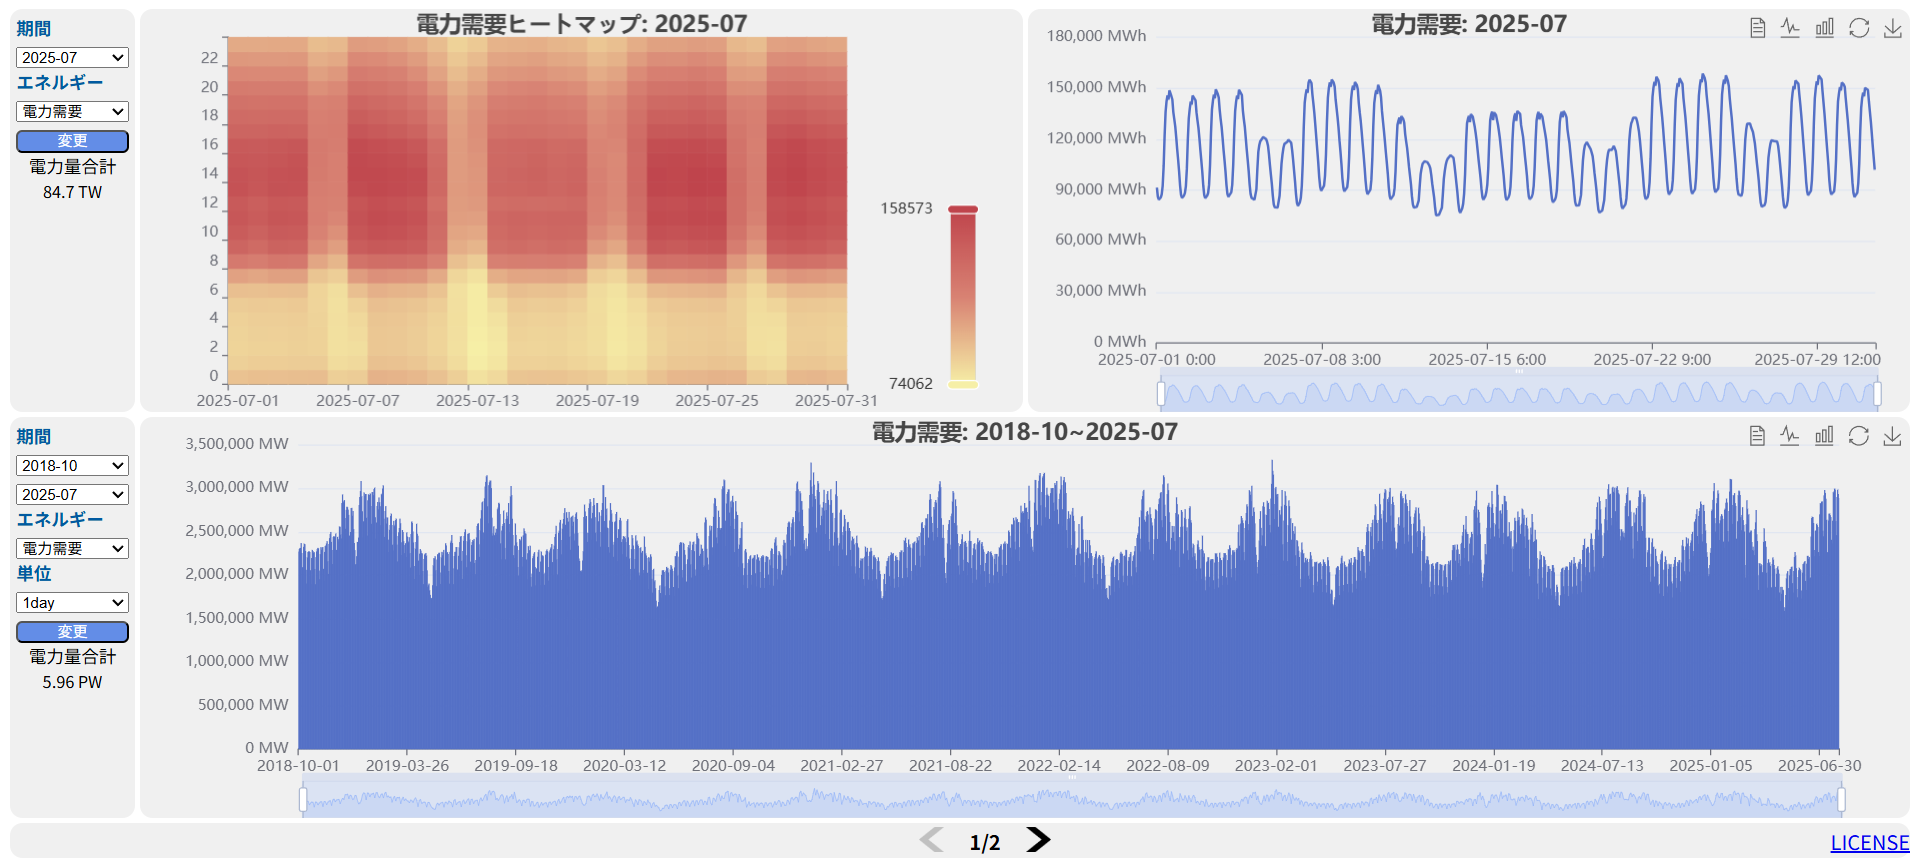
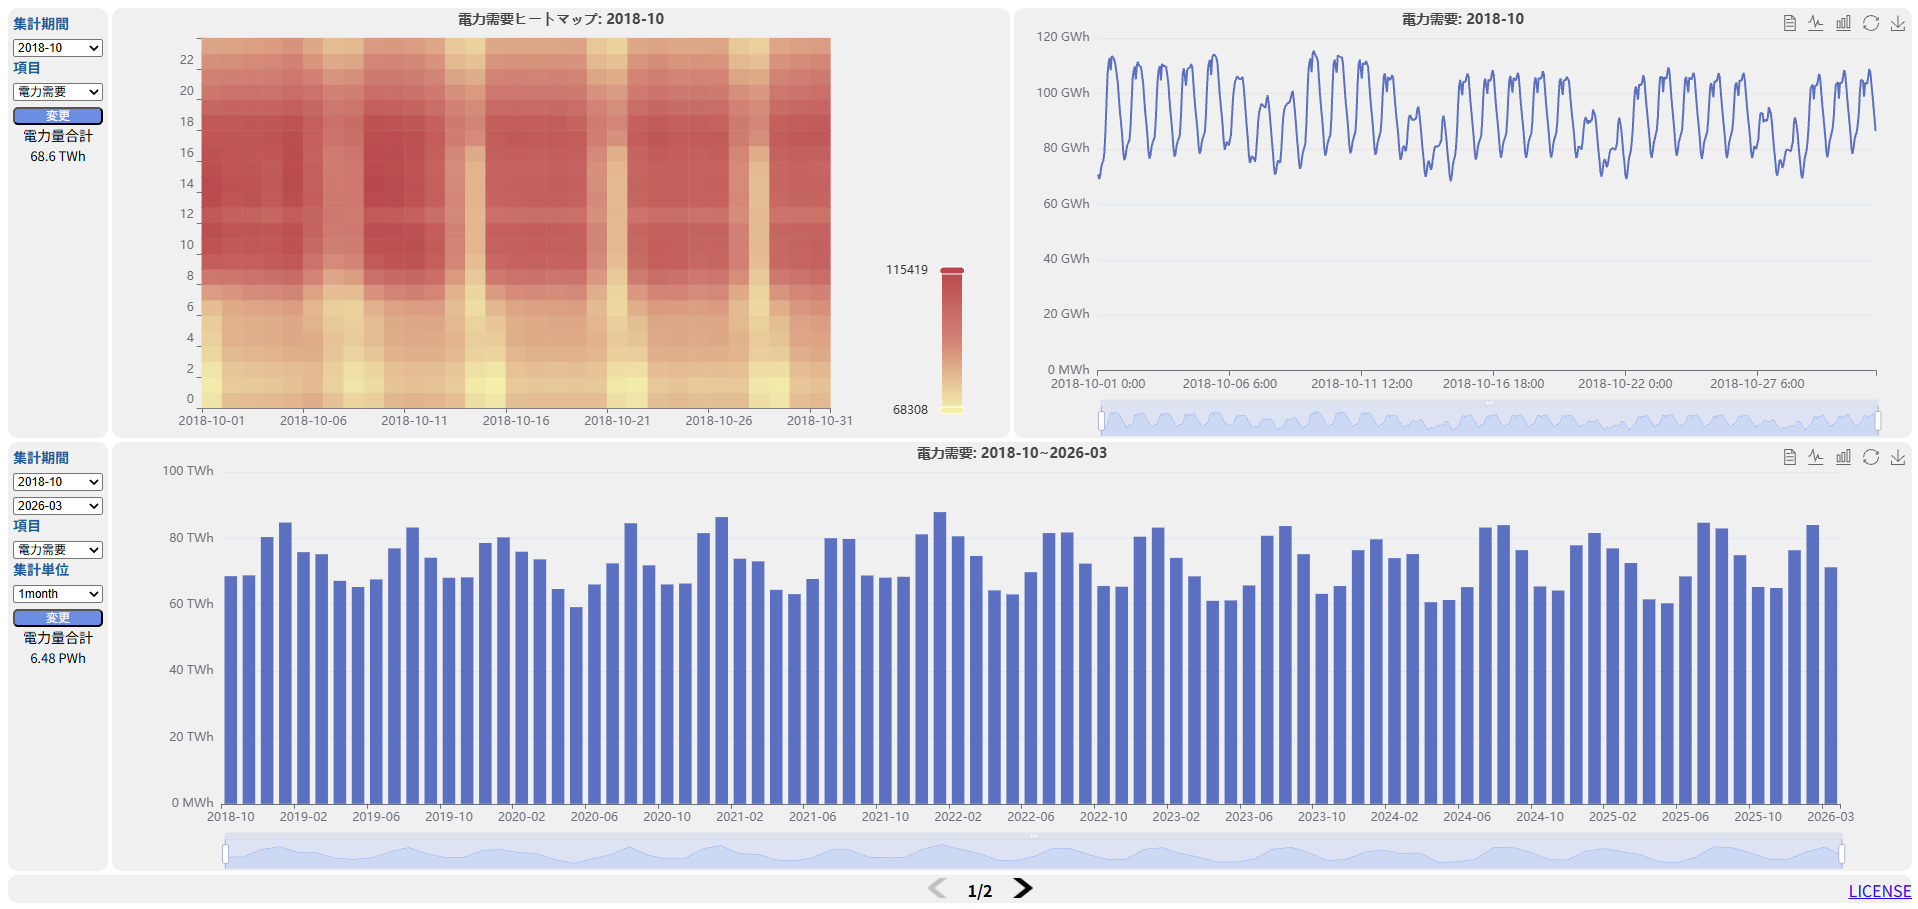
docs(readme): rewrite project documentation in Japanese
Expand the README with a clearer Japanese overview of the app, updated screenshots, data/model details, build and local preview instructions, data regeneration steps, and S3 deployment workflow. Also refresh the badge link and replace the preview images used in the documentation.

diff --git a/README.md b/README.md
@@ -1,115 +1,232 @@
-# ⚡ Japan Power Demand Chart
+# Japan Power Demand Chart
 
 [![Deploy to S3](https://github.com/BEROCHLU/power-demand-chart/actions/workflows/deploy-s3.yml/badge.svg)](https://github.com/BEROCHLU/power-demand-chart/actions/workflows/deploy-s3.yml)
-[![License: MIT](https://img.shields.io/badge/License-MIT-yellow.svg)](https://opensource.org/licenses/MIT)
+[![License: MIT](https://img.shields.io/badge/License-MIT-yellow.svg)](LICENSE)
 
-An interactive, high-performance web dashboard that visualizes Japan's power supply and demand situations over time. Built with modern web technologies, it allows users to analyze energy breakdowns, trends, and patterns through various specialized charts.
+日本の電力需給実績を、ヒートマップ、時系列グラフ、積み上げグラフ、構成比グラフで確認する静的 Web アプリケーションです。
 
-![Dashboard Preview 1](https://github.com/BEROCHLU/power-demand-chart/blob/main/.github/image1.png)
-![Dashboard Preview 2](https://github.com/BEROCHLU/power-demand-chart/blob/main/.github/image2.png)
+このリポジトリは、月別 CSV を `dist/data/rowdata-all.json` に変換し、ブラウザ上で読み込んで ECharts に描画します。サーバーサイド API は使わず、集計と表示はクライアント側で完結します。
 
----
+![Dashboard preview 1](.github/image1.png)
 
-## 🔗 Deployment URL
-Live Website Hosted on AWS S3:  
-👉 [http://aws-s3-tokyo.s3-website-ap-northeast-1.amazonaws.com/](http://aws-s3-tokyo.s3-website-ap-northeast-1.amazonaws.com/)
+![Dashboard preview 2](.github/image2.png)
 
----
+## 公開先
 
-## 💡 Key Features
+AWS S3 の静的 Web サイトホスティングで公開します。
 
-- **Rich Visualizations**:
-  - **Heatmap**: Time-of-day (24h) vs. Date matrix showing demand intensities.
-  - **Stacked Area/Bar Chart**: Visualizes generation breakdowns by energy sources (Nuclear, Thermal, Hydro, Solar, Wind, Biomass, etc.).
-  - **Percentage Breakdown**: 100% stacked bar chart showing energy mix ratios over time.
-  - **Time Series Line Chart**: Zoomable line charts for detailed demand tracking.
-- **Flexible Aggregation Units**:
-  - Instantly switch data granularity between **1 Hour** (raw hourly data), **1 Day** (daily totals), and **1 Month** (monthly totals).
-- **Smart Unit Scaling**:
-  - Automatically scales Y-axis labels and total summary calculations to the most readable physical unit (e.g., `MWh` ➔ `GWh` ➔ `TWh` ➔ `PWh`) depending on the selected range.
-- **Interactive UI**:
-  - High-performance dashboard with smooth tab transitions and zoomable chart scopes (DataZoom).
+```text
+http://aws-s3-tokyo.s3-website-ap-northeast-1.amazonaws.com/
+```
 
----
+`main` ブランチへの push をトリガーに、GitHub Actions が `npm install`、`npm run build`、`dist` の S3 同期を実行します。
 
-## 🗄 Data Source & Architecture
+## 主な機能
 
-- **Data Origin**: Public power supply and demand statistics provided by the **OCCTO** (Organization for Cross-regional Coordination of Transmission Operators, Japan) under the Agency for Natural Resources and Energy, Ministry of Economy, Trade and Industry.
-- **Client-Side Heavy Architecture**: 
-  - To minimize server dependencies, the application compiles raw data into a local store and executes high-speed multidimensional filtering and aggregation entirely on the client-side.
+- 月単位で対象期間を選択できます。
+- `電力需要`、`原子力`、`地熱`、`水力`、`火力`、`バイオマス`、`風力実績`、`風力抑制量`、`太陽光実績`、`太陽光抑制量`、`揚水` を表示できます。
+- 1時間、1日、1か月の粒度に集計して表示できます。
+- ECharts の DataZoom で期間を拡大、移動できます。
+- ECharts の toolbox からデータ表示、グラフ形式切り替え、画像保存ができます。
+- `mathjs` の単位フォーマットで、合計値や軸ラベルを `MWh`、`GWh`、`TWh` など読みやすい単位に整形します。
 
-## 🖱 How to Use
+## 画面構成
 
-The dashboard consists of two main pages (panels). You can navigate the pages using the page selector buttons (◀ / ▶) at the bottom.
+画面下部の左右ボタンで 2 つのパネルを切り替えます。
 
-### 📌 Page 1: Heatmap & Demand Trends
-This page is focused on visual intensity patterns and individual energy trends.
-1. **Filter Data**: Use the left control panel to select the **Period**, **Energy Source**, and **Aggregation Unit** (1hour, 1day, or 1month).
-2. **Apply Changes**: Click the **"Change" (変更)** button to refresh the Heatmap and Line Charts.
-3. **Data Summaries**: Check the **"Total Power" (電力量合計)** in the sidebar to see the sum of the filtered range.
+### 1ページ目: 個別項目の推移
 
-### 📌 Page 2: Energy Breakdowns & Mix Ratios
-This page visualizes the energy generation mix and stacked capacities.
-1. **Filter Range**: Select the start/end months and aggregation units in the left sidebar, then click **"Change" (変更)**.
-2. **Interactive Analysis**:
-   - **Legend Toggle**: Click on any energy source in the top legend (e.g., "Solar" or "Thermal") to toggle its visibility on/off. The stacked heights and percentage ratios will automatically recalculate.
-   - **Zoom & Scroll**: Use the slide bar at the bottom of the charts (DataZoom) to zoom into specific date ranges or scroll through the timeline.
-   - **Export Data/Images**: Hover over the top-right icons on any chart to open a data table view or download the chart as an image.
+1ページ目は、単一項目の月内または期間内推移を見る画面です。
 
----
+- 上段左の条件で、対象月と項目を選択します。
+- 上段中央に、日付 x 時刻のヒートマップを表示します。
+- 上段右に、同じ月の時系列グラフを表示します。
+- 下段左の条件で、開始月、終了月、項目、集計単位を選択します。
+- 下段右に、選択期間の時系列グラフを表示します。
 
-## 🛠 Tech Stack & Libraries
+### 2ページ目: エネルギー別の内訳
 
-- **Core Rendering & Charting**:
-  - [ECharts (v5)](https://echarts.apache.org/): Core high-performance visualization library.
-- **Data Engine**:
-  - [Crossfilter2](https://github.com/crossfilter/crossfilter2): Ultra-fast client-side multidimensional filtering and data reduction.
-- **Utilities**:
-  - [Math.js (v12+)](https://mathjs.org/): For dynamic physical units handling and formatting.
-  - [Day.js](https://day.js.org/): Lightweight datetime parser and ranges matcher.
-  - [jQuery](https://jquery.com/) & [Lodash](https://lodash.com/): DOM operations and array manipulation helpers.
-- **Bundler & Build Pipeline**:
-  - [Webpack (v5)](https://webpack.js.org/): Lightweight ES6+ JS bundler (Optimized, no transpilation overhead for modern browsers).
-  - [GitHub Actions](https://github.com/features/actions): CI/CD pipeline deploying updates automatically to AWS S3.
+2ページ目は、電力需要と各電源項目の関係を見る画面です。
 
----
+- 左の条件で、開始月、終了月、集計単位を選択します。
+- 上段に、電力需要エネルギー別割合を表示します。
+- 下段に、電力需要エネルギー別積み上げグラフを表示します。
+- 凡例をクリックすると、項目ごとの表示と非表示を切り替えられます。
+- 左側には、表示中データの項目別合計値を表示します。
 
-## 🚀 Getting Started
+## データ
 
-### Prerequisites
-- Node.js (Recommended: v22 LTS)
-- npm
+現行の `dist/data/rowdata-all.json` には、次のデータが含まれています。
 
-### Development Setup
+| 項目 | 内容 |
+| --- | --- |
+| 収録レコード数 | 65,063 |
+| 日付範囲 | 2018-10-01 から 2026-03-31 |
+| 粒度 | 1時間 |
+| 単位 | MWh |
+| 入力ファイル | `rawdata/data/*_10エリア計.csv` |
+| 生成ファイル | `dist/data/rowdata-all.json` |
+
+CSV のヘッダーには「一般送配電事業者各社の公表データを元に作成」と記載されています。元 CSV は CP932/Shift_JIS で、変換スクリプトは `xlsx` に `codepage: 932` を指定して読み込みます。
+
+注意点:
+
+- `rawdata/data` の現行ファイル範囲は `201810_10エリア計.csv` から `202603_10エリア計.csv` です。
+- `2026-02` の CSV は現行リポジトリに含まれていません。
+- 現行 JSON では `2024-03` が 743 レコードで、1時間分少ない状態です。
+- 四捨五入などにより、CSV 上の合計と個別項目の和が一致しない場合があります。
+
+## 技術構成
+
+| 用途 | 使用技術 |
+| --- | --- |
+| グラフ描画 | ECharts |
+| クライアント側集計 | crossfilter2 |
+| 日付処理 | dayjs |
+| 単位表示 | mathjs |
+| DOM 操作、タブ切り替え | jQuery |
+| 配列、オブジェクト処理 | lodash |
+| バンドル | webpack |
+| データ変換 | TypeScript + xlsx |
+| デプロイ | GitHub Actions + AWS S3 |
+
+## ディレクトリ構成
+
+```text
+.
+├── .github/
+│   ├── image1.png
+│   ├── image2.png
+│   └── workflows/deploy-s3.yml
+├── dev/
+│   ├── css/style.css
+│   └── src/
+│       ├── jqtab.js
+│       ├── native.js
+│       └── vendor.js
+├── dist/
+│   ├── build/
+│   │   ├── main.js
+│   │   ├── vendor.js
+│   │   └── vendor.js.LICENSE.txt
+│   ├── css/style.css
+│   ├── data/rowdata-all.json
+│   ├── img/
+│   └── index.html
+├── rawdata/
+│   ├── create-rowdata.ts
+│   └── data/
+├── package.json
+├── tsconfig.json
+└── webpack.config.js
+```
+
+主要ファイル:
+
+- `dist/index.html`: 実行時に配信される HTML です。
+- `dist/css/style.css`: 実行時に配信される CSS です。
+- `dev/src/native.js`: データ読み込み、集計、ECharts の描画処理です。
+- `dev/src/jqtab.js`: 2ページ構成のパネル切り替え処理です。
+- `rawdata/create-rowdata.ts`: `rawdata/data` の月別 CSV を `dist/data/rowdata-all.json` に変換します。
+- `webpack.config.js`: `dev/src/native.js` と `dev/src/jqtab.js` を `dist/build/main.js`、`dist/build/vendor.js` にバンドルします。
+
+## セットアップ
+
+Node.js 22 系を前提にしています。GitHub Actions でも Node.js 22 を使用しています。
 
 ```bash
-# 1. Clone the repository
-git clone https://github.com/BEROCHLU/power-demand-chart.git
-cd power-demand-chart
-
-# 2. Install dependencies
 npm install
+```
 
-# 3. Build bundle for production (Outputs to ./dist/build/)
+## ビルド
+
+本番用バンドルを作成します。
+
+```bash
 npm run build
 ```
 
-Open [dist/index.html](dist/index.html) in your browser to view the application locally.
+開発用 sourcemap 付きでビルドする場合:
 
----
+```bash
+npm run build-v
+```
 
-## 📊 Data Preparation (Optional)
+ファイル変更を監視してビルドする場合:
 
-If you need to update or regenerate the chart source data from raw statistics (Excel/CSV files from OCCTO):
+```bash
+npm run build-w
+```
 
-1. Put the raw Excel/CSV data files in the `./test/data/` directory.
-2. Run the parser script:
-   ```bash
-   npm run create-data
-   ```
-   This compiles the Excel rows into a consolidated JSON object array in `./dev/src/rowdata-all.js` used by the application.
+webpack が生成するのは JS バンドルです。`dist/index.html`、`dist/css/style.css`、`dist/data/rowdata-all.json`、`dist/img` は webpack の出力対象ではなく、静的ファイルとしてそのまま配信されます。
 
----
+## ローカル確認
 
-## 📄 License
-This project is licensed under the MIT License - see the [LICENSE](LICENSE) file for details.
+このアプリは `fetch('./data/rowdata-all.json')` で JSON を読み込みます。ブラウザで `dist/index.html` を直接開くと、環境によっては `file://` の制限でデータ読み込みに失敗します。ローカル HTTP サーバーで `dist` を配信してください。
+
+例:
+
+```bash
+python3 -m http.server 8000 --directory dist
+```
+
+ブラウザで次を開きます。
+
+```text
+http://localhost:8000/
+```
+
+## データ更新
+
+月別 CSV を更新したら、JSON を再生成します。
+
+1. `rawdata/data` に `YYYYMM_10エリア計.csv` 形式の CSV を配置します。
+2. 次のコマンドを実行します。
+
+```bash
+npm run create-data
+```
+
+このコマンドは `rawdata/create-rowdata.ts` を実行し、`dist/data/rowdata-all.json` を上書きします。
+
+変換処理の概要:
+
+- `rawdata/data` 配下のファイルを読み込みます。
+- 先頭 3 行をスキップし、4 行目をヘッダーとして扱います。
+- `需要` を `電力需要` にリネームします。
+- `月日` を `YYYY-MM-DD` に変換します。
+- `時刻` を数値の時刻に変換します。
+- `需要` が数値ではない行はログ出力してスキップします。
+
+補足: `create-data` は `npx ts-node` を使います。環境に `ts-node` が無い場合、初回実行時に `npx` が取得を試みます。
+
+## デプロイ
+
+`.github/workflows/deploy-s3.yml` は、`main` ブランチへの push で次を実行します。
+
+1. リポジトリを checkout します。
+2. Node.js 22 をセットアップします。
+3. `npm install` を実行します。
+4. `npm run build` を実行します。
+5. AWS 認証情報を GitHub Secrets から読み込みます。
+6. 既存 S3 バケット内容を `backup` に同期します。
+7. `dist` 配下を `s3://aws-s3-tokyo` に同期します。
+
+必要な GitHub Secrets:
+
+- `AWS_ACCESS_KEY_ID`
+- `AWS_SECRET_ACCESS_KEY`
+
+AWS リージョンは `ap-northeast-1` です。
+
+## 開発メモ
+
+- アプリ本体はプレーンな JavaScript で、React や Vue などの UI フレームワークは使っていません。
+- `dist/data/rowdata-all.json` は約 16 MB あります。初回表示時はこの JSON の読み込み後にチャートを初期化します。
+- `dev/src/vendor.js` は生成済みバンドルです。通常の開発では `dev/src/native.js` と `dev/src/jqtab.js` を編集します。
+- `dist/css/style.css` が実際に HTML から参照されます。CSS を変更する場合は、配信対象の `dist/css/style.css` を更新してください。
+- 現在の `package.json` にはテスト用スクリプトはありません。
+
+## ライセンス
+
+MIT License です。詳細は [LICENSE](LICENSE) を参照してください。
